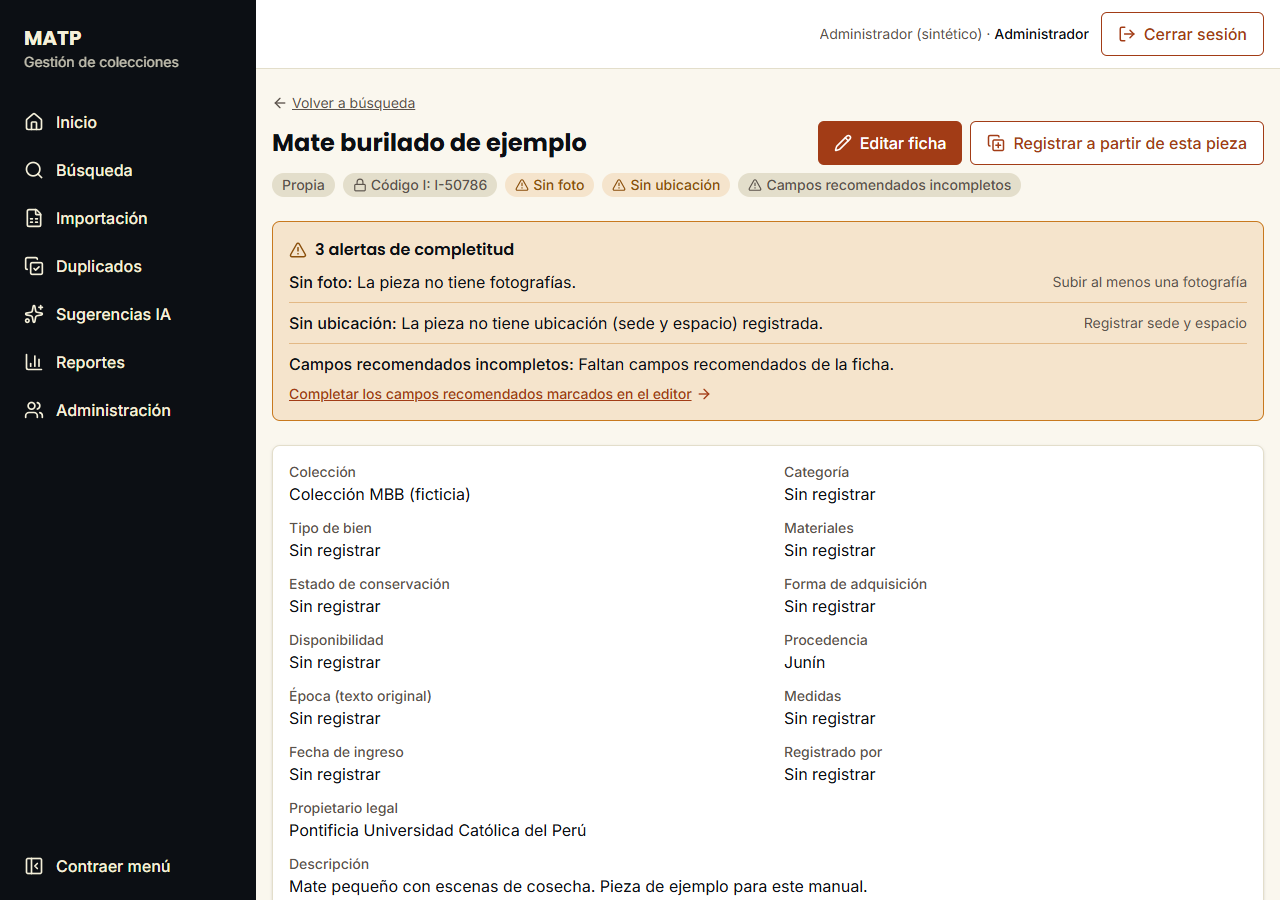
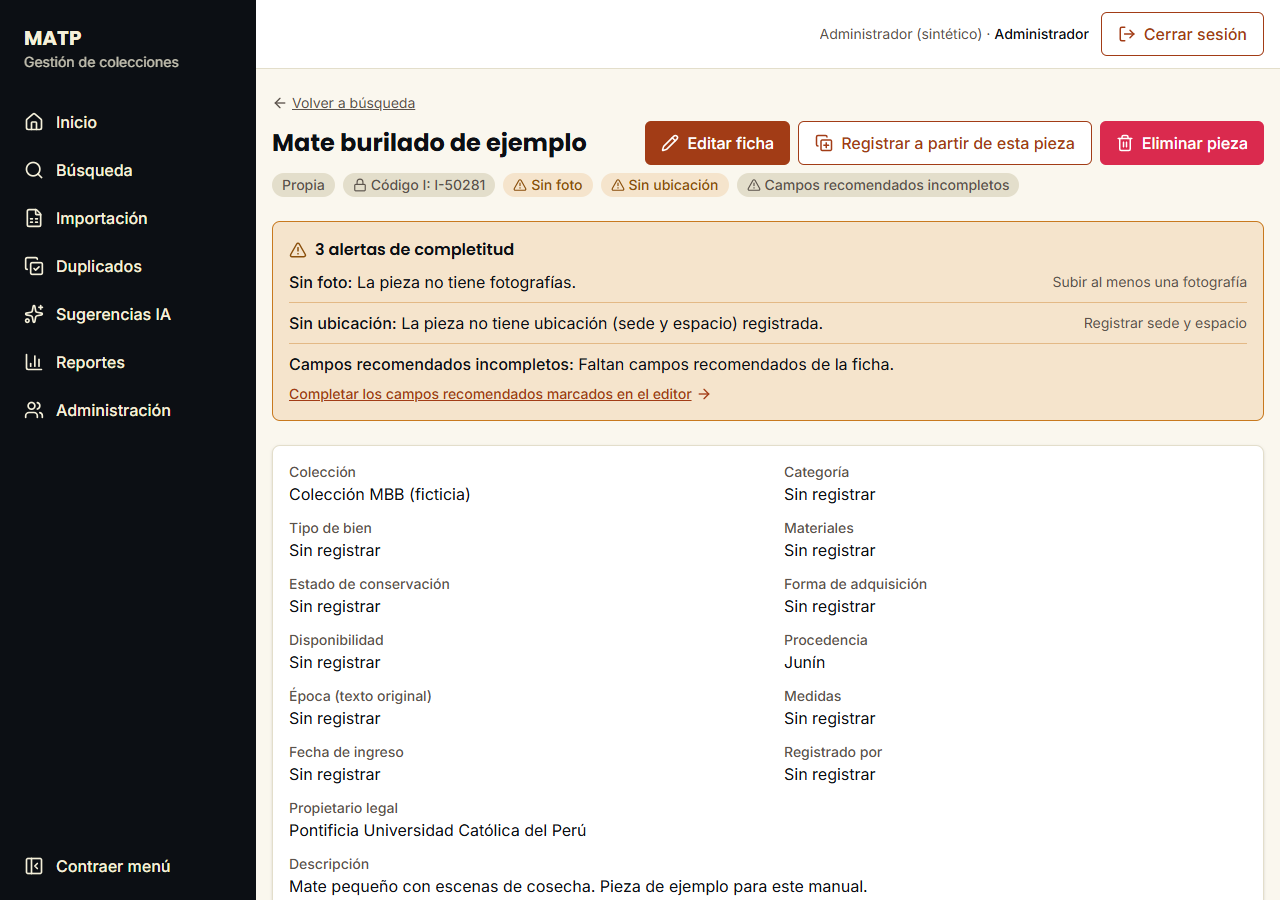
docs(manual): explain codes, deleting and restoring a piece
Adds registering codes, correcting the code I, deleting and restoring to
the catalog manual, with screenshots taken from the running application
and synthetic data. Retakes the sheet and conflict screenshots, which
changed with the live sheet actions.

Changed region(s): [[0.3438, 0.1244, 1.0, 0.2178]]

diff --git a/docs/manual-usuario/catalogo.md b/docs/manual-usuario/catalogo.md
@@ -1,6 +1,6 @@
 # Catálogo
 
-> Secciones escritas por cada change: alta, edición y conflictos llegan con `ficha-pieza-crud`; la conservación, con `colecciones-y-vocabularios-admin`; el registro a mano de piezas seguidas, con `crud-manual-completo`.
+> Secciones escritas por cada change: alta, edición, conflictos, códigos, eliminación y restauración llegan con `ficha-pieza-crud`; la conservación, con `colecciones-y-vocabularios-admin`; el registro a mano de piezas seguidas, con `crud-manual-completo`.
 
 ## Registrar una pieza
 
@@ -21,7 +21,7 @@ La ficha avisa de lo que falta, como la foto, la ubicación o los campos recomen
 Conviene saber:
 
 - **Comodato.** Al elegirlo aparecen **Comodante** y **Convenio de comodato**.
-- **Código I.** Es solo para piezas en propiedad, y una vez asignado no se cambia.
+- **Código I.** Es solo para piezas en propiedad. Una vez asignado, solo un Administrador puede corregirlo (vea [Corregir el código I](#corregir-el-código-i)).
 - **Borrador.** Lo que escribe se guarda en este navegador. Si cierra la página sin registrar, al volver verá «Se recuperó un borrador sin guardar». Para empezar de cero, pulse **Descartar borrador**.
 
 ### Si algo sale mal
@@ -30,7 +30,7 @@ Conviene saber:
 |---|---|
 | «La denominación es obligatoria» | Escriba la denominación. |
 | «El código … ya está asignado a otra pieza activa» | Ese código ya lo tiene otra pieza, y **Registrar pieza** queda apagado. Revise el código en la pieza física. |
-| «Una pieza en comodato no puede recibir Código de inventario general (I)» | Aparece al pulsar **Registrar pieza**. Borre el código I o revise el régimen de tenencia. |
+| «Una pieza en comodato no puede recibir Código de inventario general (I)» | **Registrar pieza** queda apagado. Borre el código I o revise el régimen de tenencia. |
 
 ## Editar una pieza
 
@@ -43,7 +43,7 @@ Pueden hacerlo el Catalogador, la Gestora de colecciones y el Administrador.
 
 Cada cambio queda en la auditoría, con quién lo hizo y cuándo.
 
-Aquí no se cambian el **Régimen de tenencia**, el **Propietario legal** ni el **código I**.
+Aquí no se cambian el **Régimen de tenencia**, el **Propietario legal** ni el **código I**. El código I se corrige desde la ficha: vea [Corregir el código I](#corregir-el-código-i).
 
 ### Si otra persona guardó antes que usted
 
@@ -65,16 +65,103 @@ Si dos personas editan la misma pieza, la segunda en guardar ve el aviso **Otra 
 | «Otra persona guardó cambios en esta ficha mientras usted la editaba» | Siga los pasos de arriba. |
 | «Se recuperó un borrador sin guardar» | Revise los datos antes de guardar: la ficha pudo cambiar después. Si no le sirve, pulse **Descartar borrador**. |
 
+## Registrar otros códigos de la pieza
+
+Pueden hacerlo el Catalogador, la Gestora de colecciones y el Administrador.
+
+La tabla de la ficha muestra todos los códigos de la pieza. Los que ya no se usan dicen **Histórico**: no se borran, y la búsqueda sigue encontrando la pieza por ellos.
+
+1. En la ficha, vaya a **Registrar un identificador**, debajo de la tabla.
+2. Elija el **Tipo de código**.
+3. Escriba el **Código** tal como figura en la fuente. Si quiere, indique de dónde salió en **Fuente**.
+4. Pulse **Registrar identificador**. El código aparece en la tabla.
+
+Una pieza en propiedad que aún no tiene código I lo recibe aquí, con el tipo **Código de inventario general (I)**.
+
+### Si el valor junta varios códigos
+
+Si escribe, por ejemplo, `MBB 901 / RA 902`, el sistema no lo separa por su cuenta: le muestra una propuesta.
+
+1. Revise cada código propuesto.
+2. Pulse **Registrar 2 códigos por separado**. Si la propuesta no le sirve, pulse **No separar, volver a editar** y corrija lo que escribió.
+
+![Diálogo que propone registrar por separado dos códigos de ejemplo](capturas/ficha-separar-codigos.png)
+
+### Si algo sale mal
+
+| Qué ve | Qué hacer |
+|---|---|
+| «Escriba el código que quiere registrar» | El campo **Código** está vacío. Escríbalo. |
+| «El código … ya está asignado a otra pieza activa» | Ese código ya lo tiene otra pieza. Revise el código en la pieza física. |
+| «El código … pertenece a una pieza eliminada» | El código sigue reservado para esa pieza. Solo un Administrador puede reasignarlo. |
+| «Una pieza en comodato no puede recibir Código de inventario general (I)» | Una pieza en comodato nunca lleva código I. Use otro tipo de código o revise el régimen de tenencia. |
+| «No se pudo preparar el registro de códigos» | Falló la conexión y el formulario no aparece. Recargue la página. |
+| «Solo se muestran los códigos vigentes» | Falló la conexión y la tabla no trae los códigos históricos. No se perdió nada: recargue la página. |
+| No aparece el formulario | Su rol no registra códigos. |
+
+## Corregir el código I
+
+Solo puede hacerlo el Administrador, y solo si la pieza ya tiene código I.
+
+1. En la ficha, debajo de los códigos, pulse **Corregir código I (procedimiento auditado)**.
+2. Escriba el **Código I nuevo** y el **Motivo de la corrección**. Los dos son obligatorios.
+3. Pulse **Corregir código I**.
+
+![Diálogo para corregir el código I, con el código nuevo y el motivo](capturas/ficha-corregir-codigo.png)
+
+El código nuevo queda **Vigente**. El anterior sigue en la tabla como **Histórico**, y la búsqueda sigue encontrando la pieza por él. La corrección queda en la auditoría, con quién la hizo, los dos valores y el motivo.
+
+![Tabla de códigos con el código I anterior como histórico y el nuevo como vigente](capturas/ficha-identificadores.png)
+
+### Si algo sale mal
+
+| Qué ve | Qué hacer |
+|---|---|
+| «El código … ya está asignado a otra pieza activa» | Ese código es de otra pieza y no se cambió nada. Revise el código en la pieza física. |
+| «Revise los datos enviados: hay campos obligatorios vacíos o con formato no válido» | El motivo es muy corto. Escriba al menos 3 caracteres. |
+
+## Eliminar una pieza
+
+Pueden hacerlo la Gestora de colecciones y el Administrador.
+
+1. En la ficha, pulse **Eliminar pieza**.
+2. Escriba el **Motivo de la eliminación**. Es obligatorio y necesita al menos 3 caracteres; con menos, verá «Revise los datos enviados» y la pieza no se elimina.
+3. Pulse **Eliminar pieza**.
+
+![Diálogo para eliminar una pieza, con el motivo escrito](capturas/ficha-eliminar.png)
+
+La pieza no se borra: queda marcada como eliminada y conserva su historial y su código I. Deja de aparecer en el catálogo y en las búsquedas. Su código I sigue reservado, así que otra pieza no puede usarlo.
+
+La ficha muestra el aviso **Pieza eliminada**.
+
+![Aviso de pieza eliminada, con el botón para restaurarla](capturas/ficha-eliminada.png)
+
+## Restaurar una pieza eliminada
+
+Solo puede hacerlo el Administrador. Hay dos caminos:
+
+- **Justo después de eliminarla:** en el aviso **Pieza eliminada**, pulse **Restaurar pieza**. El motivo es opcional.
+- **Más adelante:** desde **Administración › Papelera** (vea [Auditoría, reversión y papelera](auditoria.md#papelera)). Al salir de la página, la ficha de una pieza eliminada ya no se abre.
+
+![Diálogo para restaurar una pieza](capturas/ficha-restaurar.png)
+
+La pieza vuelve al catálogo y a las búsquedas, con sus códigos.
+
+### Si algo sale mal
+
+| Qué ve | Qué hacer |
+|---|---|
+| «Su rol no puede restaurarla» | Pídasela a un Administrador. |
+| El diálogo dice que su código I ya lo usa otra pieza activa | No se restauró. Revise cuál de las dos piezas debe tener ese código. |
+
 ## Lo que la ficha todavía no permite
 
 Estas acciones aún no están en la ficha. Si necesita alguna, pídala a quien administra el sistema:
 
-- eliminar una pieza;
-- corregir el código I;
-- registrar otros códigos de la pieza;
-- cambiar el régimen de tenencia.
+- cambiar el régimen de tenencia;
+- dar de baja un código secundario mal registrado.
 
-Una pieza ya eliminada se restaura desde **Administración › Papelera** (vea [Auditoría, reversión y papelera](auditoria.md)).
+Una pieza fusionada solo se consulta: su ficha enlaza a la pieza que se conservó y no ofrece acciones.
 
 ## Registrar a mano después de la carga histórica
 

diff --git a/docs/manual-usuario/README.md b/docs/manual-usuario/README.md
@@ -7,7 +7,7 @@ Cada change del backlog tiene como tarea de cierre actualizar su sección. Mient
 | Sección | Archivo | Change que la escribe | Estado |
 |---|---|---|---|
 | Acceso: iniciar sesión, contraseña, sesión expirada | `acceso.md` | `autenticacion-y-matriz-permisos` | escrita |
-| Catálogo: alta, edición, conflictos, conservación, registro a mano de piezas seguidas | `catalogo.md` | `ficha-pieza-crud`, `colecciones-y-vocabularios-admin`, `crud-manual-completo` | parcial: faltan eliminar, corregir el código I y registrar códigos, que aún no están en la ficha |
+| Catálogo: alta, edición, conflictos, códigos, eliminación y restauración, conservación, registro a mano de piezas seguidas | `catalogo.md` | `ficha-pieza-crud`, `colecciones-y-vocabularios-admin`, `crud-manual-completo` | escrita |
 | Fotografías: agregar, ordenar, principal, retirar y restricciones | `fotografias.md` | `fotografias-multiples-por-pieza` | escrita |
 | Depósito: ahora en la Búsqueda (nota con los enlaces) | `deposito.md` | `ubicacion-jerarquica-y-movimientos`, `fusion-busqueda-deposito` | escrita |
 | Importación de sábanas Excel/CSV y plantillas | `importacion.md` | `importacion-pipeline-reconciliacion`, `plantillas-mapeo-y-normalizacion` | parcial: asistente, aprobación, bitácora e imágenes (`importacion-pipeline-reconciliacion`); faltan plantillas y reversión |
